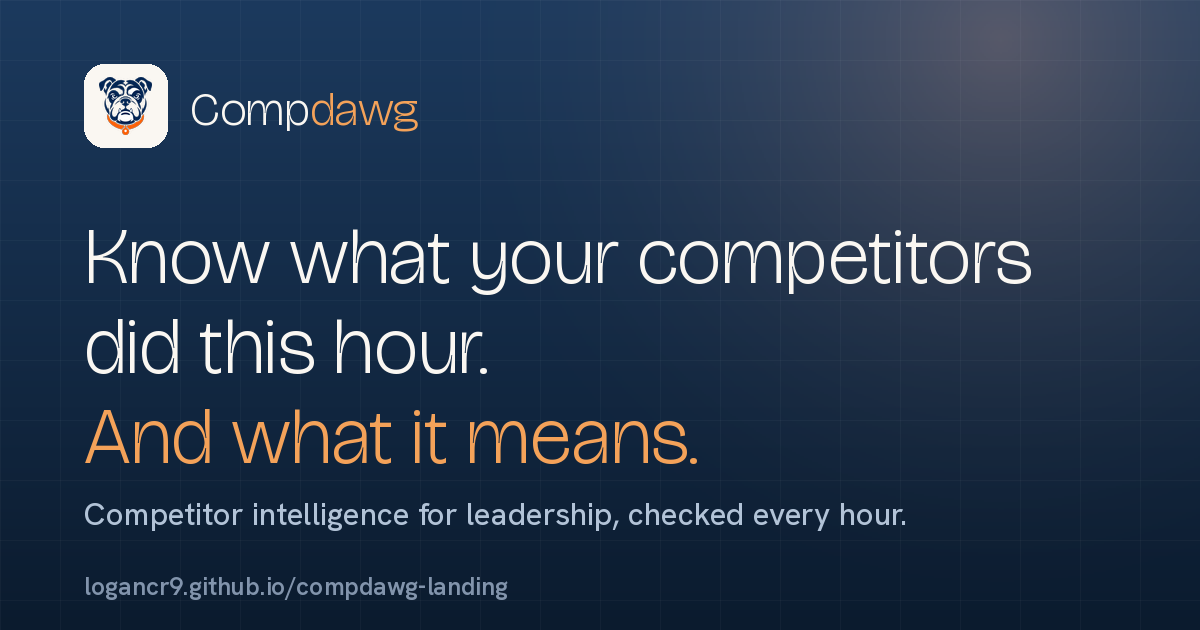
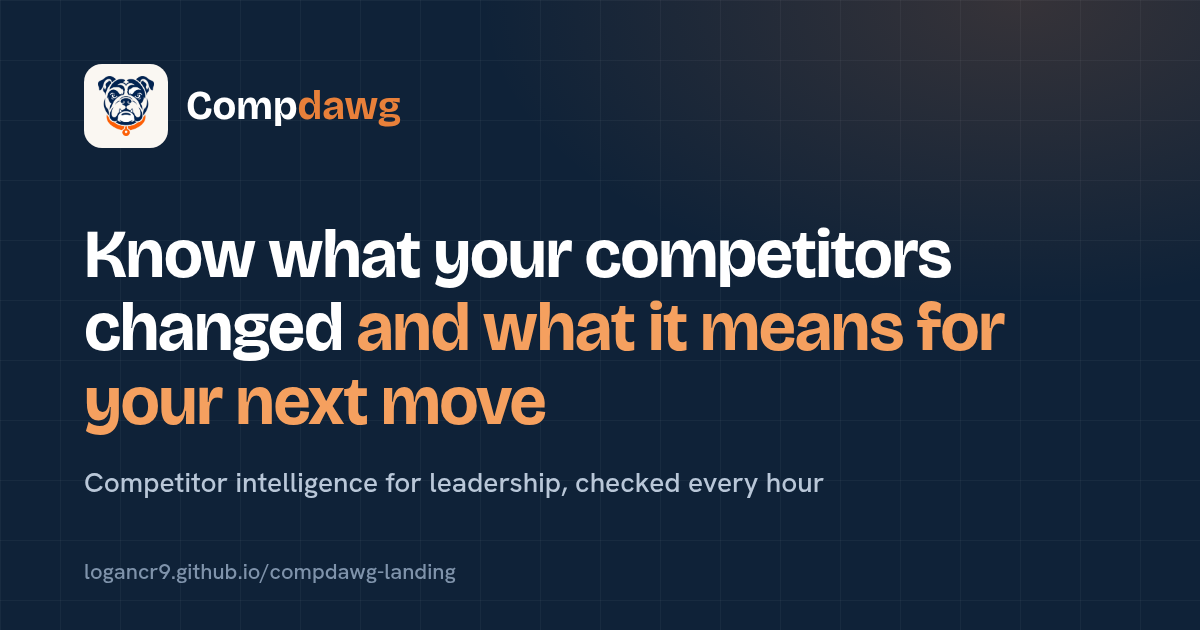
Landing copy: flowing headlines and short lines, fewer periods

diff --git a/index.html b/index.html
@@ -4,22 +4,22 @@
 <meta charset="utf-8">
 <meta name="viewport" content="width=device-width, initial-scale=1">
 <title>Compdawg: competitor intelligence for leadership, checked every hour</title>
-<meta name="description" content="Compdawg watches your competitors every hour and sends a brief in plain English on every important change: what changed, and why it matters. Every signal shows its source and when it was last checked.">
+<meta name="description" content="Compdawg watches your competitors every hour and sends leadership a plain English brief on every important change, with the source and the last checked time on every signal">
 <meta name="theme-color" content="#0f2238">
 <link rel="canonical" href="https://logancr9.github.io/compdawg-landing/">
 
 <!-- Open Graph / Twitter -->
 <meta property="og:title" content="Compdawg: competitor intelligence for leadership, checked every hour">
-<meta property="og:description" content="We check every competitor source every hour and send a brief in plain English on every important change: what changed, and why it matters.">
+<meta property="og:description" content="We check every competitor source every hour and send leadership a plain English brief on every important change, including what changed and why it matters">
 <meta property="og:image" content="https://logancr9.github.io/compdawg-landing/og.png">
 <meta property="og:image:width" content="1200">
 <meta property="og:image:height" content="630">
-<meta property="og:image:alt" content="Compdawg: know what your competitors did this hour, and what it means">
+<meta property="og:image:alt" content="Compdawg: know what your competitors changed and what it means for your next move">
 <meta property="og:type" content="website">
 <meta property="og:url" content="https://logancr9.github.io/compdawg-landing/">
 <meta name="twitter:card" content="summary_large_image">
 <meta name="twitter:title" content="Compdawg: competitor intelligence for leadership, checked every hour">
-<meta name="twitter:description" content="We check every competitor source every hour and send a brief in plain English on every important change.">
+<meta name="twitter:description" content="We check every competitor source every hour and send leadership a plain English brief on every important change">
 <meta name="twitter:image" content="https://logancr9.github.io/compdawg-landing/og.png">
 
 <link rel="icon" href="brand/icon-32.png" sizes="32x32" type="image/png">
@@ -67,8 +67,8 @@
   <div class="wrap">
     <div class="hero-grid">
       <div>
-        <h1 data-reveal>Know what your competitors did this hour. <span class="accent">And what it means.</span></h1>
-        <p class="hero-sub" data-reveal style="--reveal-delay:80ms">Competitor intelligence for leadership, checked every hour. Every important change arrives with a brief in plain English: what happened, and why it matters.</p>
+        <h1 data-reveal>Know what your competitors changed <span class="accent">and what it means for your next move</span></h1>
+        <p class="hero-sub" data-reveal style="--reveal-delay:80ms">Competitor intelligence for leadership, checked every hour, with a plain English brief on every important change that explains what happened and why it matters</p>
         <div class="hero-cta" data-reveal style="--reveal-delay:150ms">
           <a class="btn btn-primary" href="#demo">Book a demo</a>
           <a class="btn btn-ghost" href="#watch">See what we watch
@@ -77,7 +77,7 @@
         </div>
         <p class="trust" data-reveal style="--reveal-delay:220ms">
           <svg width="18" height="18" viewBox="0 0 24 24" fill="none" stroke="currentColor" stroke-width="1.7" stroke-linecap="round" stroke-linejoin="round"><path d="M12 3l7 3v5c0 4.5-3 7.6-7 9-4-1.4-7-4.5-7-9V6z"/><path d="M9 12l2 2 4-4"/></svg>
-          Every signal shows its source and when it was last checked.
+          Every signal shows its source and when it was last checked
         </p>
       </div>
 
@@ -116,13 +116,13 @@
               <span class="sig-co">Northwind</span>
               <span class="fresh"><i aria-hidden="true"></i>checked 12 min ago</span>
             </div>
-            <p class="sig-title">Northwind removed its Starter tier from the pricing page.</p>
+            <p class="sig-title">Northwind removed its Starter tier from the pricing page</p>
             <div class="meaning">
               <span class="tag">
                 <svg width="14" height="14" viewBox="0 0 24 24" fill="none" stroke="currentColor" stroke-width="1.8" stroke-linecap="round" stroke-linejoin="round"><path d="M9 18h6"/><path d="M10 21h4"/><path d="M12 3a6 6 0 0 1 4 10.5c-.7.7-1 1.2-1 2.5H9c0-1.3-.3-1.8-1-2.5A6 6 0 0 1 12 3z"/></svg>
                 What this means
               </span>
-              <p>Its entry offer is going upmarket. <b>Worth a look at how we position our entry plan.</b></p>
+              <p>Its entry offer is moving upmarket, so <b>it may be worth a look at how we position our entry plan</b></p>
             </div>
           </article>
 
@@ -132,7 +132,7 @@
               <span class="sig-co">Acme Co</span>
               <span class="fresh"><i aria-hidden="true"></i>checked 1 hr ago</span>
             </div>
-            <p class="sig-title">Acme Co published a post on serving larger teams.</p>
+            <p class="sig-title">Acme Co published a post on serving larger teams</p>
           </article>
 
           <article class="sig">
@@ -141,7 +141,7 @@
               <span class="sig-co">Example Corp</span>
               <span class="fresh"><i aria-hidden="true"></i>checked 38 min ago</span>
             </div>
-            <p class="sig-title">Example Corp started a new campaign in the LinkedIn ad library.</p>
+            <p class="sig-title">Example Corp started a new campaign in the LinkedIn ad library</p>
           </article>
         </div>
       </div>
@@ -153,79 +153,79 @@
 <section class="section hairline-y" id="watch">
   <div class="wrap">
     <div class="section-head" data-reveal>
-      <h2>Thirteen sources. <span style="color:#bd5a15">One steady watch.</span></h2>
-      <p class="lead">We track the places your competitors show their next move, and tell you what changed.</p>
+      <h2>Thirteen sources <span style="color:#bd5a15">watched together in one place</span></h2>
+      <p class="lead">We watch the places where your competitors show their next move and tell you what changed</p>
     </div>
 
     <div class="grid cols-3 watch-grid">
       <div class="card" data-reveal>
         <span class="ico"><svg width="22" height="22" viewBox="0 0 24 24" fill="none" stroke="currentColor" stroke-width="1.7" stroke-linecap="round" stroke-linejoin="round"><rect x="3" y="4.5" width="18" height="15" rx="2.5"/><path d="M3 9h18"/><path d="M5.6 6.7h1.2"/><path d="M8.6 6.7h1.2"/><path d="M8.5 15.5l2.5-2.6 2 2 2.5-2.6"/><path d="M15.5 12.4h1.5v1.5"/></svg></span>
         <h3>Website changes</h3>
-        <p>Edits to their site, captured before and after.</p>
+        <p>Edits to their site, captured before and after</p>
       </div>
       <div class="card" data-reveal style="--reveal-delay:20ms">
         <span class="ico"><svg width="22" height="22" viewBox="0 0 24 24" fill="none" stroke="currentColor" stroke-width="1.7" stroke-linecap="round" stroke-linejoin="round"><path d="M3.5 12.2V4.5a1 1 0 0 1 1-1h7.7l8.3 8.3a1.4 1.4 0 0 1 0 2l-6.2 6.2a1.4 1.4 0 0 1-2 0z"/><circle cx="8" cy="8" r="1.3"/></svg></span>
         <h3>Pricing page</h3>
-        <p>Plan and offer changes, captured before and after.</p>
+        <p>Plan and offer changes, captured before and after</p>
       </div>
       <div class="card" data-reveal style="--reveal-delay:40ms">
         <span class="ico"><svg width="22" height="22" viewBox="0 0 24 24" fill="none" stroke="currentColor" stroke-width="1.7" stroke-linecap="round" stroke-linejoin="round"><path d="M4 5.5h16a1.5 1.5 0 0 1 1.5 1.5v8a1.5 1.5 0 0 1-1.5 1.5H9l-4 3v-3H4A1.5 1.5 0 0 1 2.5 15V7A1.5 1.5 0 0 1 4 5.5z"/><path d="M6.5 9.5h11"/><path d="M6.5 12.5h7"/></svg></span>
         <h3>Company posts</h3>
-        <p>New posts from their blog and social channels.</p>
+        <p>New posts from their blog and social channels</p>
       </div>
       <div class="card" data-reveal style="--reveal-delay:80ms">
         <span class="ico"><svg width="22" height="22" viewBox="0 0 24 24" fill="none" stroke="currentColor" stroke-width="1.7" stroke-linecap="round" stroke-linejoin="round"><path d="M3.5 9.5L16 5v14L3.5 14.5z"/><path d="M3.5 9.5H3a1 1 0 0 0-1 1v3a1 1 0 0 0 1 1h.5"/><path d="M16 8.5a3.5 3.5 0 0 1 0 7"/><path d="M6 15v3.2a1.3 1.3 0 0 0 2.6 0V16"/></svg></span>
         <h3>Meta ads</h3>
-        <p>The ads we can reach in the Meta ad library.</p>
+        <p>The ads we can reach in the Meta ad library</p>
       </div>
       <div class="card" data-reveal>
         <span class="ico"><svg width="22" height="22" viewBox="0 0 24 24" fill="none" stroke="currentColor" stroke-width="1.7" stroke-linecap="round" stroke-linejoin="round"><rect x="3" y="4.5" width="18" height="15" rx="2.5"/><circle cx="9" cy="10" r="2"/><path d="M5.8 16.3a3.4 3.4 0 0 1 6.4 0"/><path d="M15 9h3.5"/><path d="M15 12h3.5"/><path d="M15 15h2.5"/></svg></span>
         <h3>LinkedIn ads</h3>
-        <p>The ads we can reach in the LinkedIn ad library.</p>
+        <p>The ads we can reach in the LinkedIn ad library</p>
       </div>
       <div class="card" data-reveal style="--reveal-delay:40ms">
         <span class="ico"><svg width="22" height="22" viewBox="0 0 24 24" fill="none" stroke="currentColor" stroke-width="1.7" stroke-linecap="round" stroke-linejoin="round"><circle cx="12" cy="12" r="8"/><circle cx="12" cy="12" r="3.4"/><path d="M12 1.5V5"/><path d="M12 19v3.5"/><path d="M1.5 12H5"/><path d="M19 12h3.5"/></svg></span>
         <h3>Positioning and gaps</h3>
-        <p>Shifts in how they frame their offer, and where it leaves room.</p>
+        <p>Shifts in how they frame their offer and where it leaves room</p>
       </div>
       <div class="card" data-reveal style="--reveal-delay:80ms">
         <span class="ico"><svg width="22" height="22" viewBox="0 0 24 24" fill="none" stroke="currentColor" stroke-width="1.7" stroke-linecap="round" stroke-linejoin="round"><path d="M3.5 20.5h17"/><path d="M4.8 20.5v-8.5"/><path d="M9 20.5v-8.5"/><path d="M15 20.5v-8.5"/><path d="M19.2 20.5v-8.5"/><path d="M12 20.5v-8.5"/><path d="M3 11.5l9-6 9 6z"/></svg></span>
         <h3>SEC filings</h3>
-        <p>Public filings as they post.</p>
+        <p>Public filings as they appear</p>
       </div>
       <div class="card" data-reveal>
         <span class="ico"><svg width="22" height="22" viewBox="0 0 24 24" fill="none" stroke="currentColor" stroke-width="1.7" stroke-linecap="round" stroke-linejoin="round"><path d="M4 5.5h11a1.5 1.5 0 0 1 1.5 1.5v10.5a1.5 1.5 0 0 0 1.5 1.5H6.5a2.5 2.5 0 0 1-2.5-2.5V5.5z"/><path d="M16.5 9H19a1 1 0 0 1 1 1v6.5a2 2 0 0 1-2 2"/><path d="M6.8 9h6.4"/><path d="M6.8 12h6.4"/><path d="M6.8 15h4"/></svg></span>
         <h3>News</h3>
-        <p>Coverage that names them.</p>
+        <p>Coverage that names them</p>
       </div>
       <div class="card" data-reveal style="--reveal-delay:40ms">
         <span class="ico"><svg width="22" height="22" viewBox="0 0 24 24" fill="none" stroke="currentColor" stroke-width="1.7" stroke-linecap="round" stroke-linejoin="round"><rect x="3" y="7.5" width="18" height="12" rx="2"/><path d="M8.5 7.5V6a2 2 0 0 1 2-2h3a2 2 0 0 1 2 2v1.5"/><path d="M3 12.5h18"/><path d="M11 11.8h2v1.6h-2z"/></svg></span>
         <h3>Job postings</h3>
-        <p>New roles on their public job boards.</p>
+        <p>New roles on their public job boards</p>
       </div>
       <div class="card" data-reveal style="--reveal-delay:80ms">
         <span class="ico"><svg width="22" height="22" viewBox="0 0 24 24" fill="none" stroke="currentColor" stroke-width="1.7" stroke-linecap="round" stroke-linejoin="round"><circle cx="9.5" cy="8" r="3.2"/><path d="M4 19a5.5 5.5 0 0 1 11 0"/><path d="M18 7.5v5"/><path d="M15.5 10h5"/></svg></span>
         <h3>New hires</h3>
-        <p>People who just joined their team.</p>
+        <p>People who just joined their team</p>
       </div>
       <div class="card" data-reveal>
         <span class="ico"><svg width="22" height="22" viewBox="0 0 24 24" fill="none" stroke="currentColor" stroke-width="1.7" stroke-linecap="round" stroke-linejoin="round"><path d="M4 9h13"/><path d="M14 6l3 3-3 3"/><path d="M20 15H7"/><path d="M10 18l-3-3 3-3"/></svg></span>
         <h3>Executive changes</h3>
-        <p>Moves in their leadership.</p>
+        <p>Changes in their leadership</p>
       </div>
       <div class="card" data-reveal style="--reveal-delay:40ms">
         <span class="ico"><svg width="22" height="22" viewBox="0 0 24 24" fill="none" stroke="currentColor" stroke-width="1.7" stroke-linecap="round" stroke-linejoin="round"><path d="M12 3c3 1.3 5 4.3 5 8 0 2-.7 3.6-1.5 4.8H8.5C7.7 14.6 7 13 7 11c0-3.7 2-6.7 5-8z"/><circle cx="12" cy="9.5" r="1.6"/><path d="M8.5 15.8l-2 2.2M15.5 15.8l2 2.2"/><path d="M10 18.3c0 1.6 1 3.2 2 3.2s2-1.6 2-3.2"/></svg></span>
         <h3>Product launches</h3>
-        <p>New products and features they ship.</p>
+        <p>New products and features as they ship</p>
       </div>
       <div class="card" data-reveal style="--reveal-delay:80ms">
         <span class="ico"><svg width="22" height="22" viewBox="0 0 24 24" fill="none" stroke="currentColor" stroke-width="1.7" stroke-linecap="round" stroke-linejoin="round"><path d="M12 3.5l2.6 5.3 5.9.9-4.3 4.1 1 5.8-5.2-2.7-5.2 2.7 1-5.8L3.5 9.7l5.9-.9z"/></svg></span>
         <h3>Reviews</h3>
-        <p>What customers write on public review sites.</p>
+        <p>What customers write on public review sites</p>
       </div>
       <div class="note note-card" data-reveal>
       <svg width="20" height="20" viewBox="0 0 24 24" fill="none" stroke="currentColor" stroke-width="1.7" stroke-linecap="round" stroke-linejoin="round"><circle cx="12" cy="12" r="9"/><path d="M12 8h.01"/><path d="M11 12h1v4h1"/></svg>
-      <p><b>Honest by default.</b> Every source shows when it was last checked and its status: <span class="status-dot">Found</span>, <span class="status-dot">Empty</span>, <span class="status-dot">Failed</span> or <span class="status-dot">Not connected</span>. We show the ads we can reach, and never claim to see one we cannot.</p>
+      <p><b>Honest by default</b>, so every source shows when it was last checked and whether it was <span class="status-dot">found</span>, <span class="status-dot">empty</span>, <span class="status-dot">failed</span> or <span class="status-dot">not connected</span>, and we show the ads we can reach without claiming to see the ones we cannot</p>
       </div>
     </div>
   </div>
@@ -236,24 +236,24 @@
   <div class="wrap">
     <div class="section-head" data-reveal>
       <h2>How it works</h2>
-      <p class="lead">You add the competitors. We do the watching. Leadership gets the brief.</p>
+      <p class="lead">You add the competitors, we do the watching, and leadership gets the brief</p>
     </div>
 
     <div class="grid cols-3 steps">
       <div class="step" data-reveal>
         <span class="num">1</span>
         <h3>Add your competitors</h3>
-        <p>Name the companies that matter. Setup takes minutes.</p>
+        <p>Name the companies that matter and setup takes minutes</p>
       </div>
       <div class="step" data-reveal style="--reveal-delay:80ms">
         <span class="num">2</span>
         <h3>We check every source every hour</h3>
-        <p>All thirteen sources, watched on the hour, with the status of each shown.</p>
+        <p>All thirteen sources are watched on the hour with the status of each one shown</p>
       </div>
       <div class="step" data-reveal style="--reveal-delay:160ms">
         <span class="num">3</span>
         <h3>Leadership gets the brief</h3>
-        <p>What changed, and what it means, written in plain English.</p>
+        <p>What changed and what it means, written in plain English</p>
       </div>
     </div>
 
@@ -272,24 +272,24 @@
 <section class="section">
   <div class="wrap">
     <div class="section-head" data-reveal>
-      <h2>Three feeds, one view</h2>
-      <p class="lead">Watch the companies you compete with, the clients you serve, and the market around them.</p>
+      <h2>Three feeds brought together in one view</h2>
+      <p class="lead">Watch the companies you compete with, the clients you serve and the market around them</p>
     </div>
     <div class="grid cols-3 feeds-wrap" style="margin-top:clamp(28px,4vw,44px)">
       <div class="card" data-reveal>
         <span class="tagnum">Feed 01</span>
         <h3>Competitors you track</h3>
-        <p>The companies you name, watched source by source, hour by hour.</p>
+        <p>The companies you name, watched source by source and hour by hour</p>
       </div>
       <div class="card" data-reveal style="--reveal-delay:80ms">
         <span class="tagnum">Feed 02</span>
         <h3>Clients you track</h3>
-        <p>The accounts you serve, so you see their moves before the conversation.</p>
+        <p>The accounts you serve, so you see their moves before the conversation</p>
       </div>
       <div class="card" data-reveal style="--reveal-delay:160ms">
         <span class="tagnum">Feed 03</span>
         <h3>The broad market</h3>
-        <p>The wider shifts around your space, gathered into one read.</p>
+        <p>The wider shifts around your space, gathered into one read</p>
       </div>
     </div>
   </div>
@@ -299,15 +299,15 @@
 <section class="section band-cream" id="plans">
   <div class="wrap">
     <div class="section-head" data-reveal>
-      <h2>Plans</h2>
-      <p class="lead">Start with the sources that matter, or watch everything with a brief on every change. Pricing is shared on the demo.</p>
+      <h2>Plans that fit how closely you want to watch</h2>
+      <p class="lead">Start with the sources that matter or watch everything with a brief on every change, with pricing shared on the demo</p>
     </div>
 
     <div class="grid cols-3 plans">
       <!-- Basic -->
       <article class="plan" data-reveal>
         <h3>Basic monitoring</h3>
-        <p class="plan-sub">The core sources, checked every few hours, in a raw signal feed.</p>
+        <p class="plan-sub">The core sources checked every few hours in a raw signal feed</p>
         <ul class="plan-list">
           <li><svg width="18" height="18" viewBox="0 0 24 24" fill="none" stroke="currentColor" stroke-width="2.2" stroke-linecap="round" stroke-linejoin="round"><path d="M5 12.5l4.5 4.5L19 7"/></svg>A small set of companies</li>
           <li><svg width="18" height="18" viewBox="0 0 24 24" fill="none" stroke="currentColor" stroke-width="2.2" stroke-linecap="round" stroke-linejoin="round"><path d="M5 12.5l4.5 4.5L19 7"/></svg>Checked every few hours</li>
@@ -325,7 +325,7 @@
       <article class="plan feature" data-reveal style="--reveal-delay:80ms">
         <span class="plan-badge">Hourly checks</span>
         <h3>Full monitoring</h3>
-        <p class="plan-sub">All thirteen sources, checked every hour, with a brief on every important change.</p>
+        <p class="plan-sub">All thirteen sources checked every hour with a brief on every important change</p>
         <ul class="plan-list">
           <li><svg width="18" height="18" viewBox="0 0 24 24" fill="none" stroke="currentColor" stroke-width="2.2" stroke-linecap="round" stroke-linejoin="round"><path d="M5 12.5l4.5 4.5L19 7"/></svg>More companies</li>
           <li><svg width="18" height="18" viewBox="0 0 24 24" fill="none" stroke="currentColor" stroke-width="2.2" stroke-linecap="round" stroke-linejoin="round"><path d="M5 12.5l4.5 4.5L19 7"/></svg>Checked every hour</li>
@@ -344,7 +344,7 @@
       <!-- Strategic -->
       <article class="plan" data-reveal style="--reveal-delay:160ms">
         <h3>Strategic insights</h3>
-        <p class="plan-sub">Everything in Full monitoring, reviewed by a person on our team.</p>
+        <p class="plan-sub">Everything in Full monitoring, reviewed by a person on our team</p>
         <ul class="plan-list">
           <li><svg width="18" height="18" viewBox="0 0 24 24" fill="none" stroke="currentColor" stroke-width="2.2" stroke-linecap="round" stroke-linejoin="round"><path d="M5 12.5l4.5 4.5L19 7"/></svg>Everything in Full monitoring</li>
           <li><svg width="18" height="18" viewBox="0 0 24 24" fill="none" stroke="currentColor" stroke-width="2.2" stroke-linecap="round" stroke-linejoin="round"><path d="M5 12.5l4.5 4.5L19 7"/></svg>Quarterly strategic report with positioning and gap analysis</li>
@@ -367,19 +367,19 @@
     <div class="demo-grid">
       <div class="demo-copy" data-reveal>
         <h2>Book a demo</h2>
-        <p class="lead">See your competitors in Compdawg, with a brief on what their recent moves mean for you.</p>
+        <p class="lead">See your competitors in Compdawg with a brief on what their recent moves mean for you</p>
         <ul class="demo-points">
           <li>
             <svg width="20" height="20" viewBox="0 0 24 24" fill="none" stroke="currentColor" stroke-width="1.8" stroke-linecap="round" stroke-linejoin="round"><rect x="4" y="5" width="16" height="16" rx="2"/><path d="M4 9h16"/><path d="M8 3v4"/><path d="M16 3v4"/><path d="M8.5 13l2.2 2.2L15.5 11"/></svg>
-            <span>A walkthrough on your competitors. We set up your first companies with you.</span>
+            <span>A walkthrough on your competitors where we set up your first companies with you</span>
           </li>
           <li>
             <svg width="20" height="20" viewBox="0 0 24 24" fill="none" stroke="currentColor" stroke-width="1.8" stroke-linecap="round" stroke-linejoin="round"><circle cx="12" cy="12" r="8.5"/><path d="M12 7v5l3.5 2"/></svg>
-            <span>See the hourly watch in action, with real sources and real freshness.</span>
+            <span>See the hourly watch in action with real sources and real freshness</span>
           </li>
           <li>
             <svg width="20" height="20" viewBox="0 0 24 24" fill="none" stroke="currentColor" stroke-width="1.8" stroke-linecap="round" stroke-linejoin="round"><path d="M12 3l7 3v5c0 4.5-3 7.6-7 9-4-1.4-7-4.5-7-9V6z"/><path d="M9 12l2 2 4-4"/></svg>
-            <span>Every claim shows its source, with a link and a timestamp.</span>
+            <span>Every claim shows its source with a link and a timestamp</span>
           </li>
         </ul>
       </div>
@@ -413,11 +413,11 @@
             </select>
           </div>
           <button class="btn btn-primary btn-block" type="submit">Book a demo</button>
-          <p class="form-foot">We reply with demo times.</p>
+          <p class="form-foot">We reply with demo times</p>
         </form>
         <div class="form-ok" id="form-ok" aria-live="polite">
           <svg width="22" height="22" viewBox="0 0 24 24" fill="none" stroke="currentColor" stroke-width="2" stroke-linecap="round" stroke-linejoin="round"><circle cx="12" cy="12" r="9"/><path d="M8 12.5l2.5 2.5L16 9"/></svg>
-          <span><b>Thanks. We'll reply with demo times.</b> Keep an eye on your inbox.</span>
+          <span><b>Thanks, we'll reply with demo times</b> so keep an eye on your inbox</span>
         </div>
       </div>
     </div>
@@ -428,7 +428,7 @@
 <section class="section hairline-y" id="faq">
   <div class="wrap">
     <div class="section-head center" data-reveal>
-      <h2>Questions, answered</h2>
+      <h2>Answers to the questions we hear most</h2>
     </div>
     <div class="faq" data-reveal>
       <details>
@@ -474,8 +474,8 @@
 <!-- =============================================== FINAL CTA -->
 <section class="section band-navy final">
   <div class="wrap">
-    <h2 data-reveal>Know what your competitors did this hour. <span style="color:var(--orange-300)">And what it means.</span></h2>
-    <p class="lead" data-reveal style="--reveal-delay:80ms">Add your competitors and let leadership read the moves that matter, with the source on every signal.</p>
+    <h2 data-reveal>Know what your competitors changed <span style="color:var(--orange-300)">and what it means for your next move</span></h2>
+    <p class="lead" data-reveal style="--reveal-delay:80ms">Add your competitors and let leadership read the moves that matter, with the source on every signal</p>
     <div class="cta" data-reveal style="--reveal-delay:150ms">
       <a class="btn btn-primary" href="#demo">Book a demo
         <svg width="18" height="18" viewBox="0 0 24 24" fill="none" stroke="currentColor" stroke-width="2" stroke-linecap="round" stroke-linejoin="round"><path d="M5 12h14"/><path d="M13 6l6 6-6 6"/></svg>
@@ -506,7 +506,7 @@
     <div class="copy">
       <span>&copy; 2026 Compdawg</span>
       &nbsp;·&nbsp;
-      <span>Competitor intelligence for leadership, checked every hour.</span>
+      <span>Competitor intelligence for leadership, checked every hour</span>
     </div>
   </div>
 </footer>

diff --git a/assets/styles.css b/assets/styles.css
@@ -256,9 +256,9 @@ p { text-wrap: pretty; }
   padding-block: clamp(48px, 7vw, 92px) var(--section-y);
 }
 .hero h1 {
-  font-size: clamp(2.5rem, 5.6vw, 4.15rem);
-  letter-spacing: -0.045em;
-  max-width: 13ch;
+  font-size: clamp(2.35rem, 4.5vw, 3.6rem);
+  letter-spacing: -0.04em;
+  max-width: 16ch;
 }
 .hero h1 .accent { color: var(--orange); }
 .hero-sub { margin-top: 22px; font-size: clamp(1.08rem, 1.5vw, 1.3rem); color: var(--ink-soft); line-height: 1.5; max-width: 34rem; }
@@ -603,7 +603,7 @@ html.js [data-reveal].is-visible { opacity: 1; transform: none; filter: none; }
    ========================================================================== */
 @media (max-width: 1000px) {
   .hero-grid { grid-template-columns: 1fr; gap: 40px; }
-  .hero h1 { max-width: 16ch; }
+  .hero h1 { max-width: 18ch; }
   .demo-grid { grid-template-columns: 1fr; }
   .cols-4 { grid-template-columns: repeat(3, minmax(0,1fr)); }
 }

diff --git a/404.html b/404.html
@@ -18,8 +18,8 @@
   <div class="nf-inner">
     <span class="mark-chip"><img src="brand/logo-mark.png" alt="Compdawg"></span>
     <div class="code">4<span class="accent">0</span>4</div>
-    <h1>This page wandered off.</h1>
-    <p>The page you were after is not here. Head back to the start and keep an eye on your competitors.</p>
+    <h1>We could not find the page you were after</h1>
+    <p>Head back to the start and keep an eye on your competitors</p>
     <a class="btn btn-primary" href="./">Back to Compdawg
       <svg width="18" height="18" viewBox="0 0 24 24" fill="none" stroke="currentColor" stroke-width="2" stroke-linecap="round" stroke-linejoin="round"><path d="M5 12h14"/><path d="M13 6l6 6-6 6"/></svg>
     </a>
